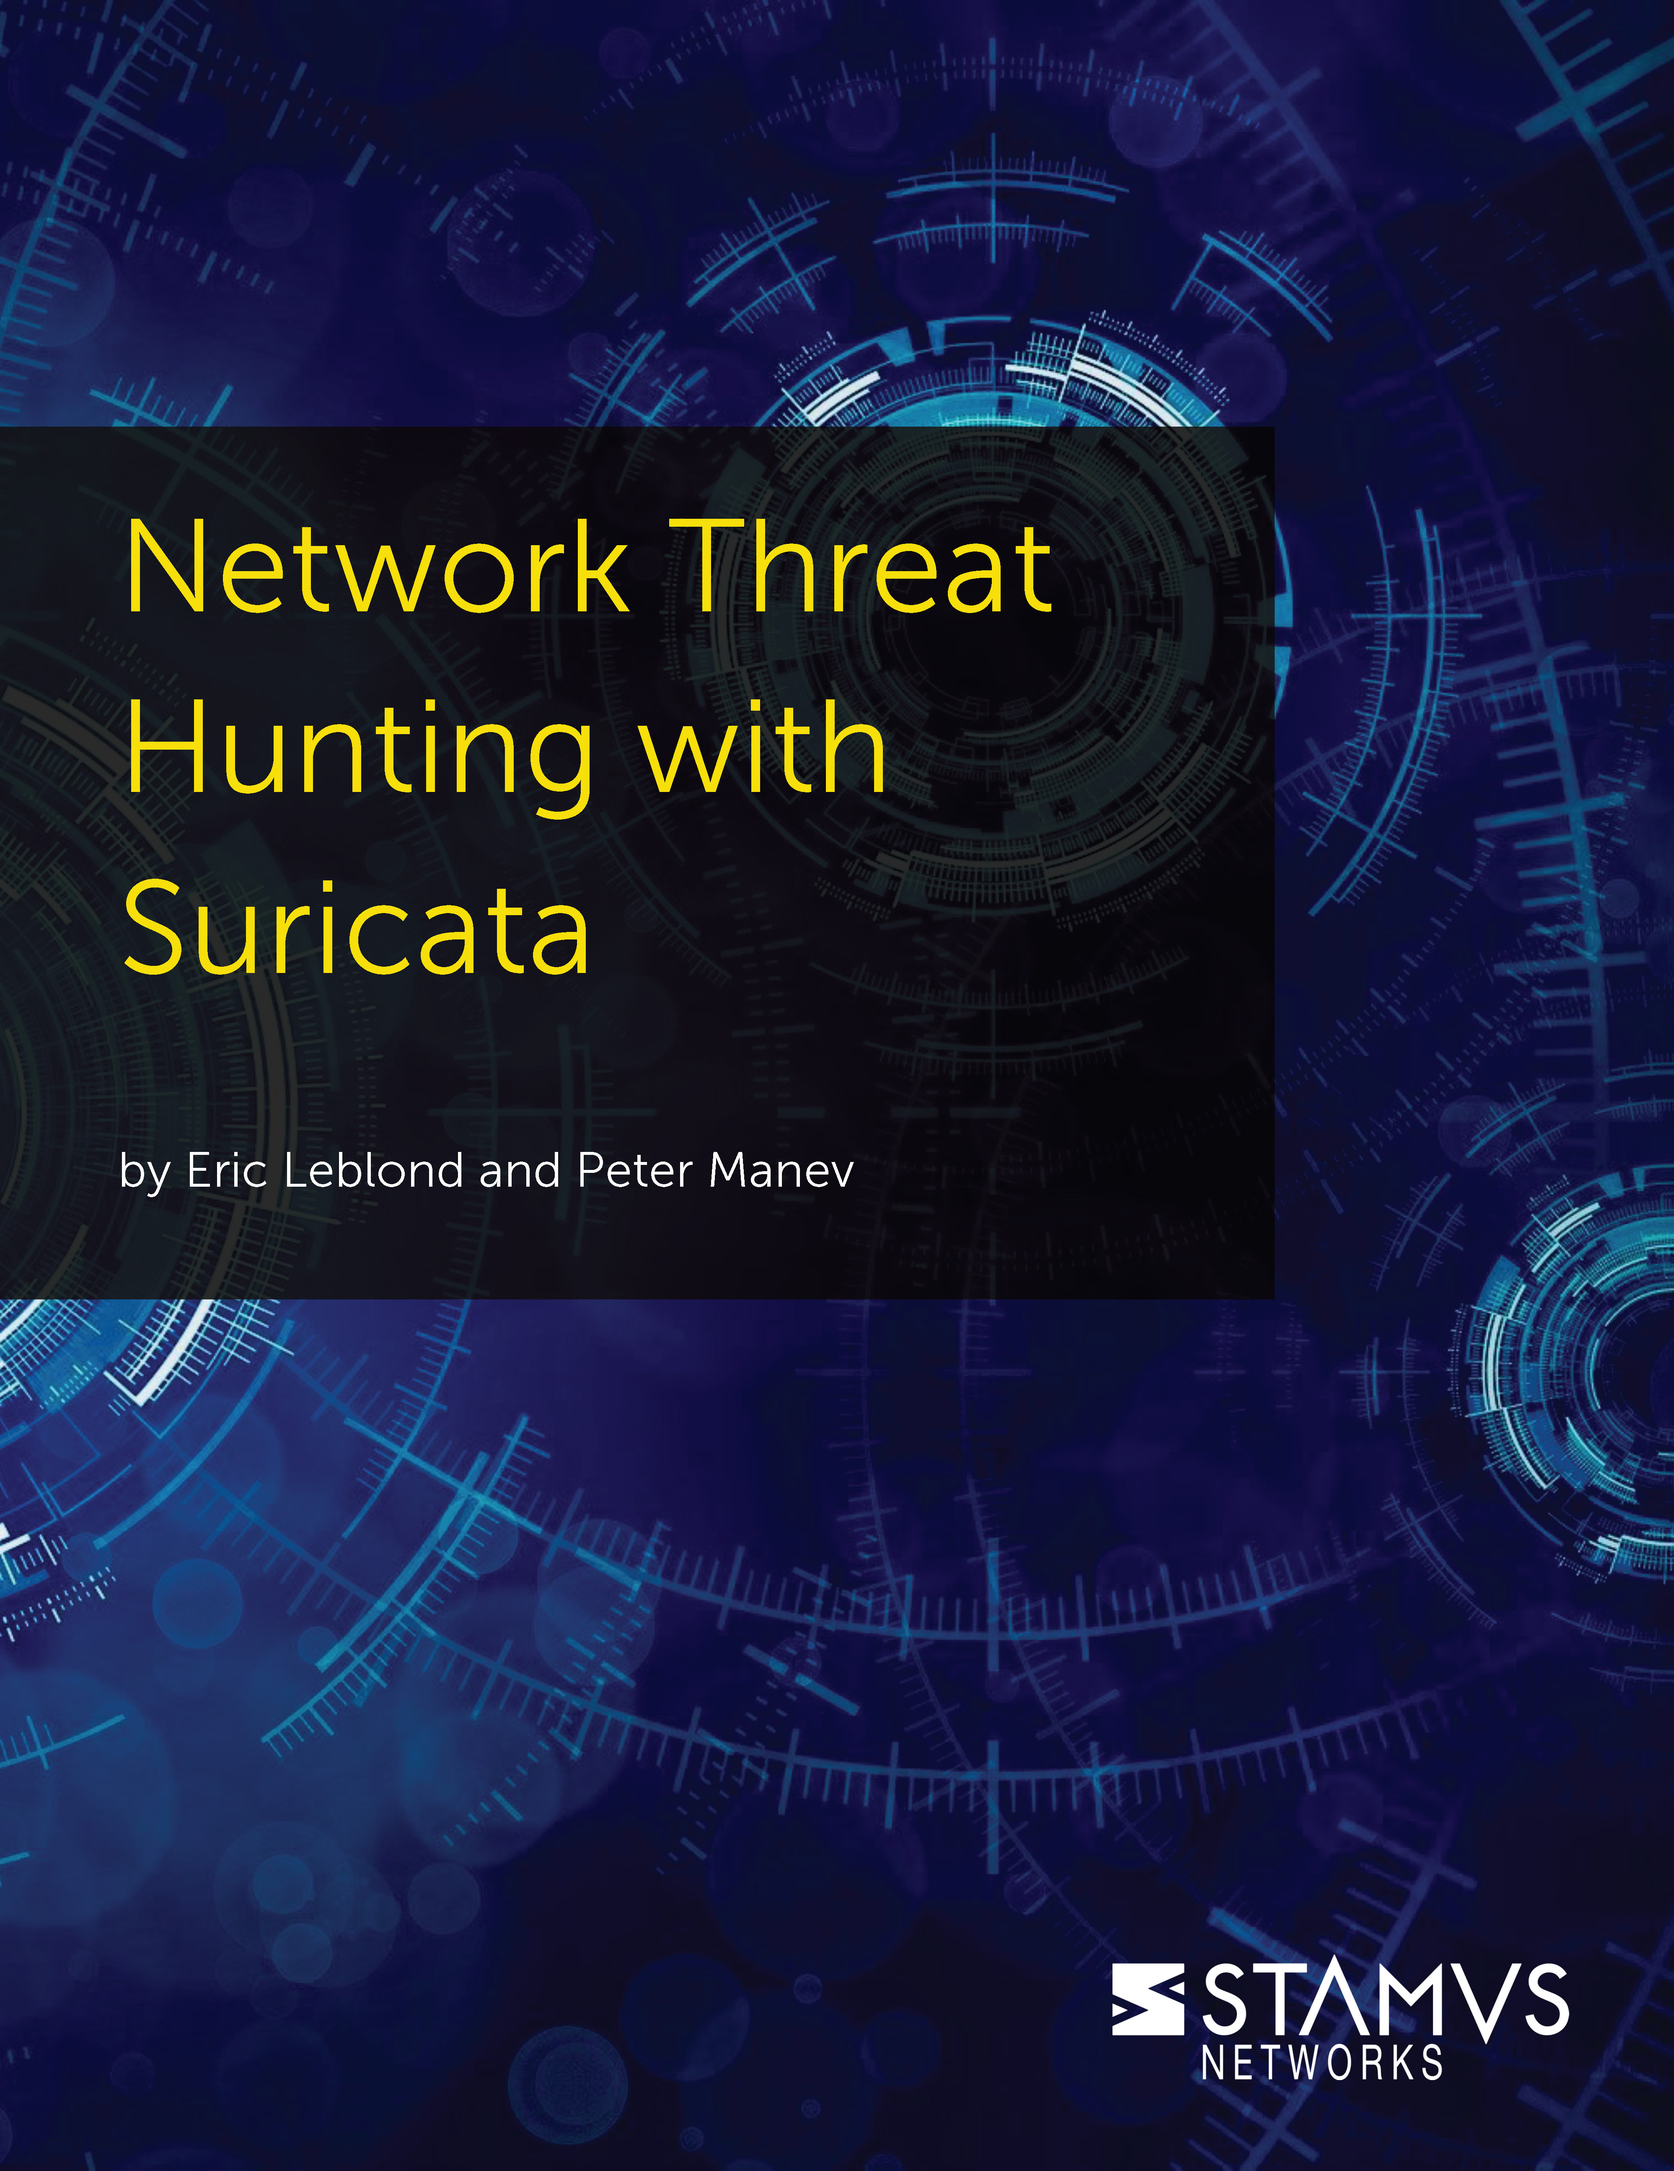
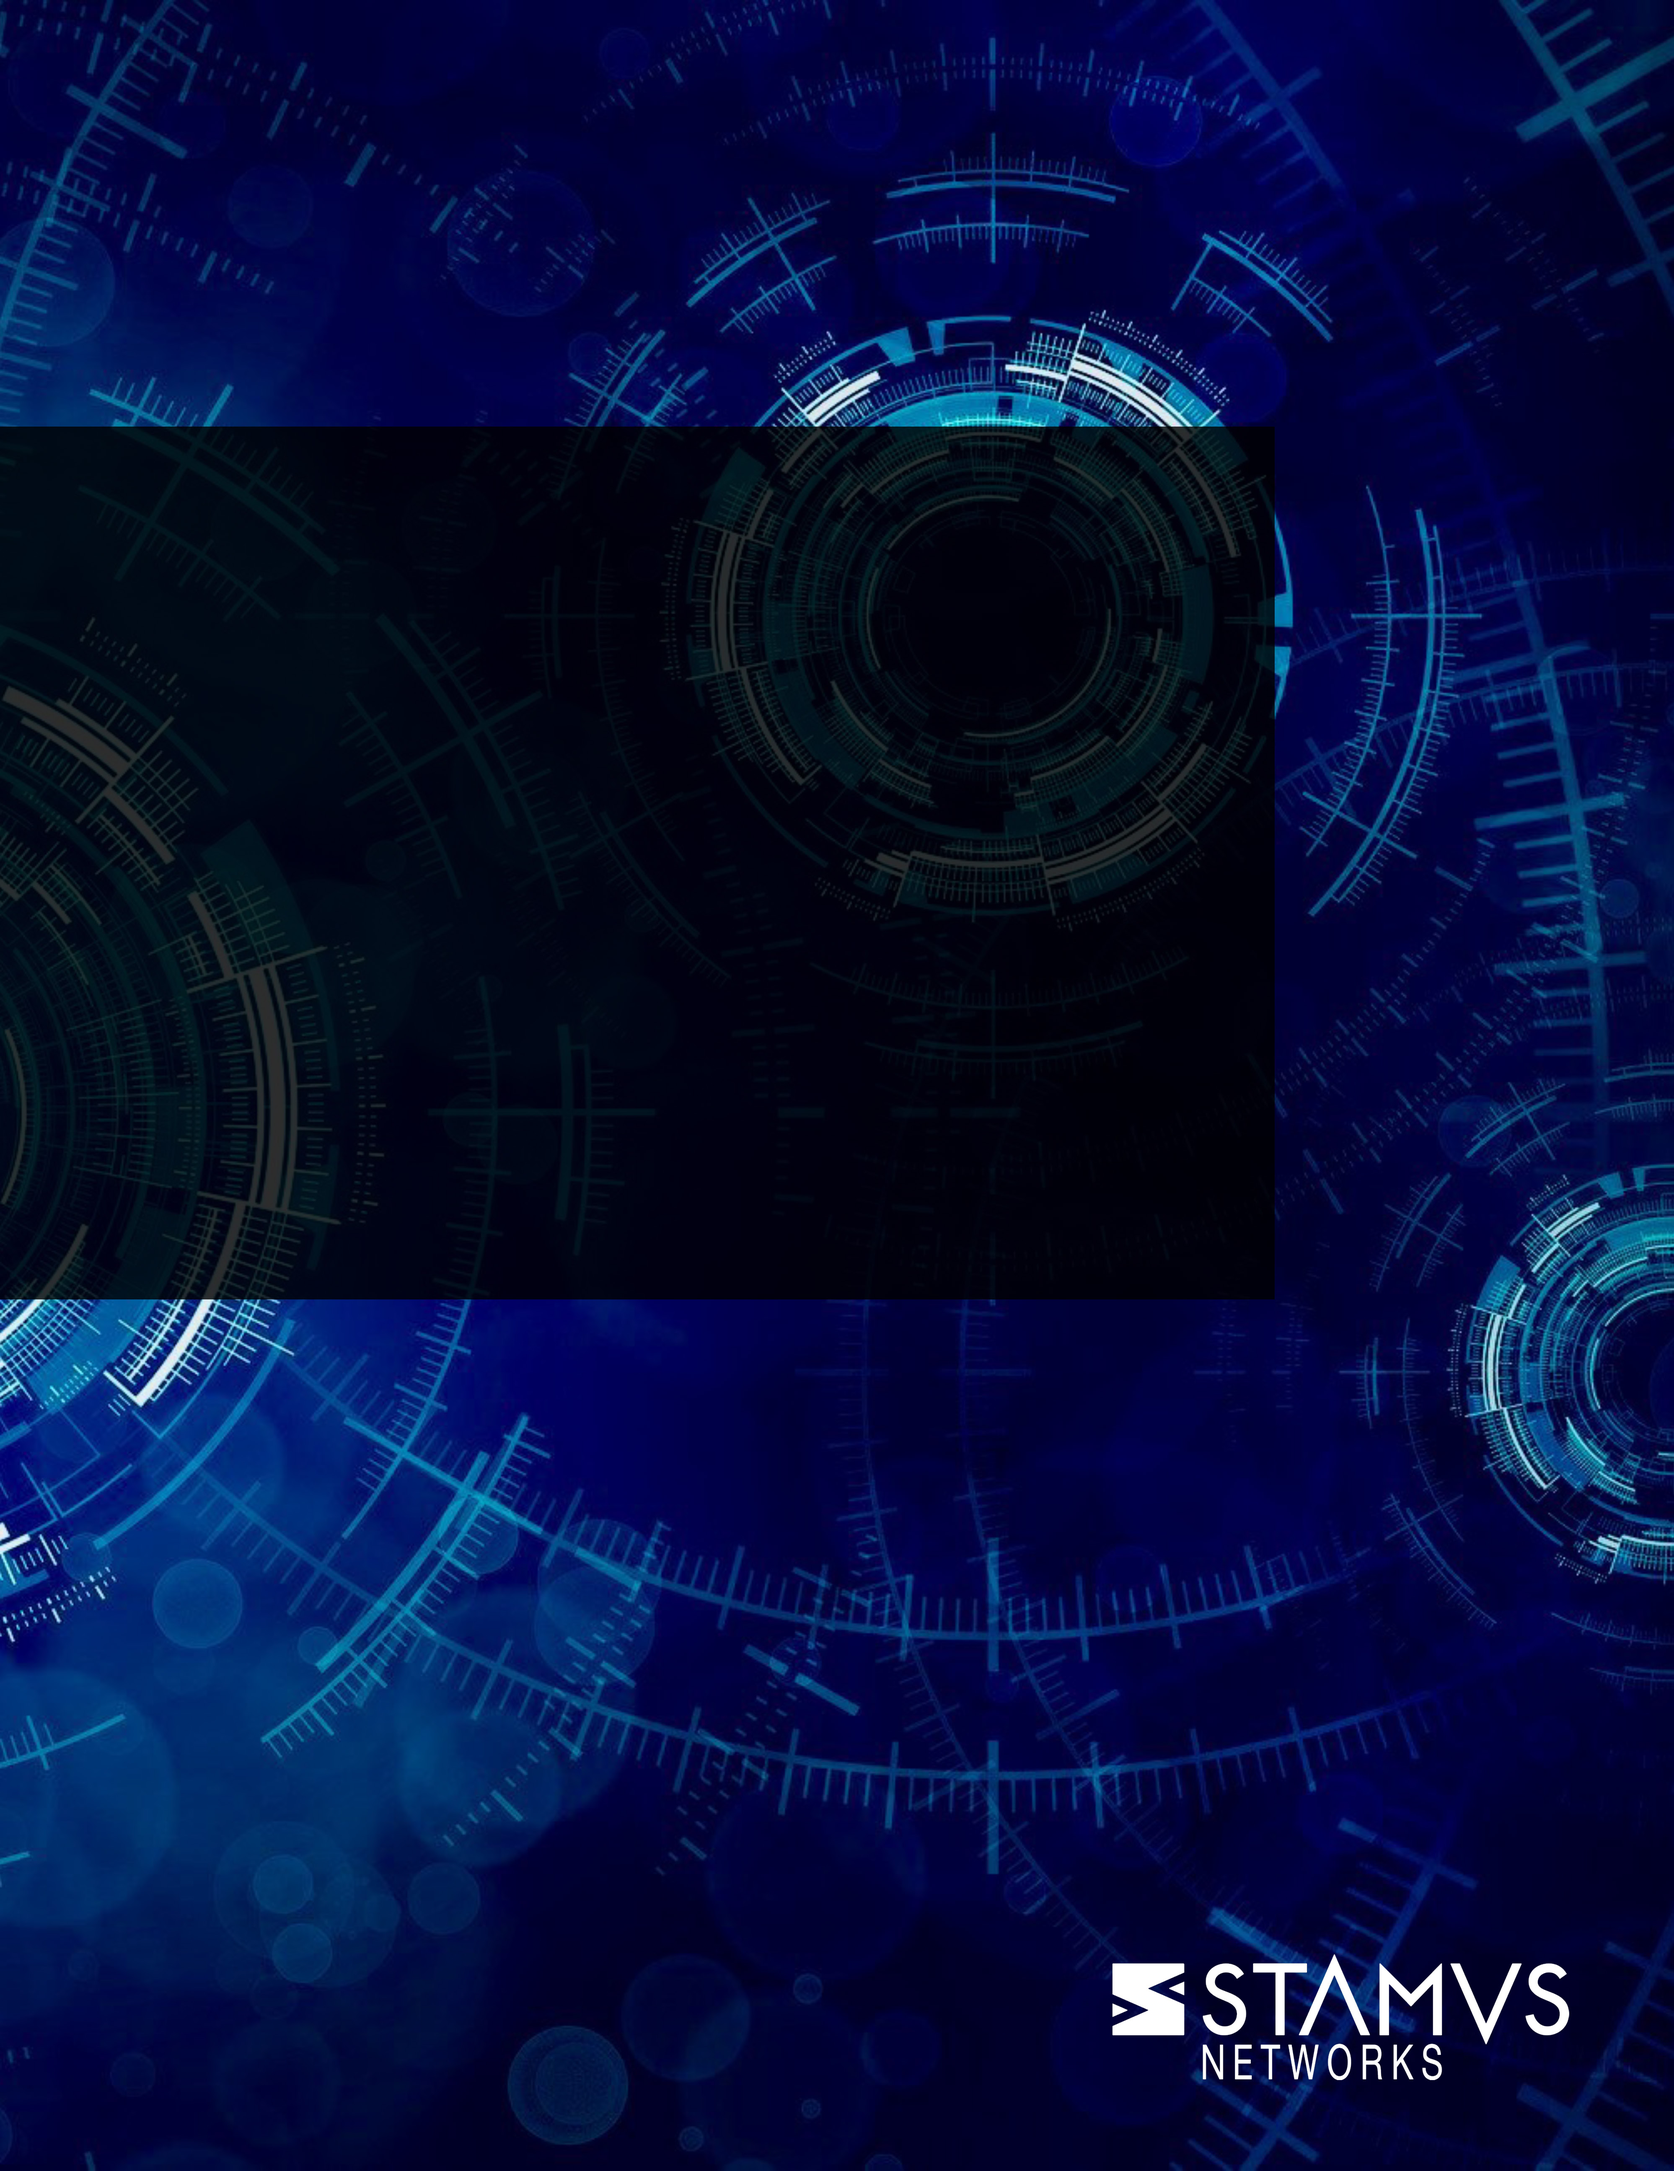
pdf: add correct covers

diff --git a/source/conf.py b/source/conf.py
@@ -94,9 +94,19 @@ latex_elements = {
 \end{titlepage}
 \AddToShipoutPictureBG{\transparent{0.5}\includegraphics[width=\paperwidth,height=12cm]{stamus-background.jpg}}
 \makeatother
-'''
+''',
+    'atendofbody': r'''
+\renewcommand{\indexname}{Index}
+\printindex
+\clearpage
+\AddToShipoutPictureFG*{\BackCoverPic}
+\vspace*{10cm}
+    ''',
+    'printindex': r'''
+\par{}
+    '''
 }
 
-latex_additional_files = ["stamus.sty", "img/stamus-logo.png", "img/stamus-background.jpg", "img/stamus-title.jpg"]
+latex_additional_files = ["stamus.sty", "img/stamus-logo.png", "img/stamus-background.jpg", "img/stamus-title.jpg", "img/stamus-backcover.jpg"]
 
 latex_logo = "img/stamus-logo.png"
